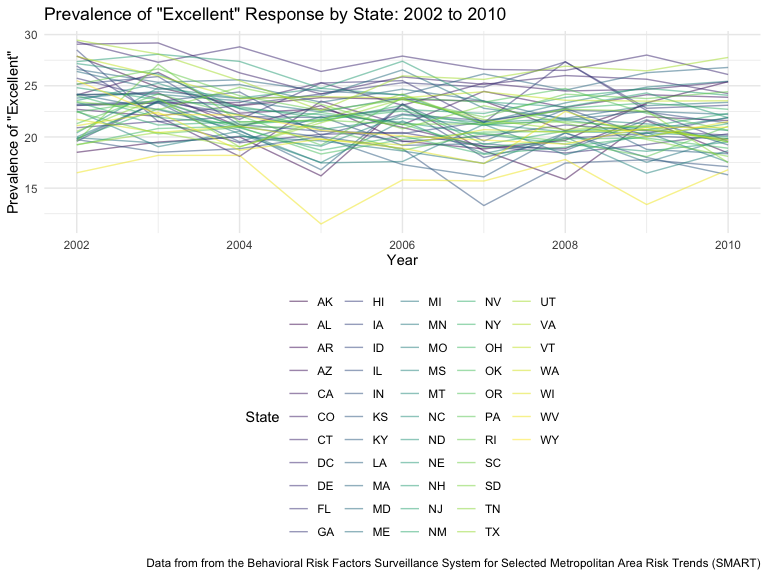
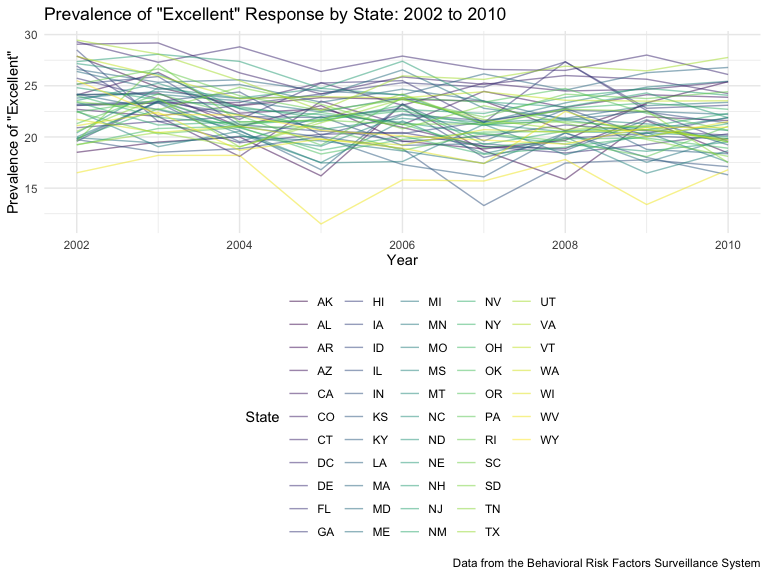
Having internet issues so can't push updates to github right now, but still comitting to Github in the meantime. Finished the plotting of education levels subquestion, now onto the plots for total activity.

Changed region(s): [[0.1875, 0.9688, 1.0, 1.0]]

diff --git a/p8105_hw3_erm2195.md b/p8105_hw3_erm2195.md
@@ -305,7 +305,7 @@ ggplot(brfss_excellent, aes(x = year, y = avg_excellence, group = state, color =
     x = "Year",
     y = 'Prevalence of "Excellent"',
     color = "State",
-    caption = "Data from from the Behavioral Risk Factors Surveillance System for Selected Metropolitan Area Risk Trends (SMART)"
+    caption = "Data from the Behavioral Risk Factors Surveillance System"
   )
 ```
 
@@ -318,6 +318,29 @@ Connecticut are generally in the top of the pack for prevalence of
 “Excellent” responses. Across the country as a whole, it appears that
 there’s a slight decline in the prevalence of “Excellent” responses from
 2002 to 2010.
+
+# Plotting Distribution of Responses in NY State in 2006 and 2010
+
+Make a two-panel plot showing, for the years 2006, and 2010,
+distribution of data_value for responses (“Poor” to “Excellent”) among
+locations in NY State.
+
+``` r
+brfss |> 
+  filter(year %in% c(2006, 2010) & state == "NY") |> 
+  drop_na(response) |> 
+  ggplot(aes(x = response, y = response_prevalence)) +
+  geom_boxplot() +
+  facet_grid(. ~ year) +
+  labs(
+    title = "Distribution of NY State Responses in 2006 and 2010",
+    x = "Response",
+    y = "Prevalence",
+    caption = "Data from the Behavioral Risk Factors Surveillance System"
+  ) 
+```
+
+<img src="p8105_hw3_erm2195_files/figure-gfm/unnamed-chunk-11-1.png" width="90%" />
 
 # Problem 3
 
@@ -368,20 +391,21 @@ Tidying and merging the two datasets. Specifically:
 
 - Excluding participants younger than 21 years old
 
-- Final dataset should include all originally observed variables
+- Recoding the `sex` and `education` variables to be factors, with the
+  latter being ordered
 
-- Exclude participants less than 21 years of age
+- “Tidying” the `mim_accel` dataset using `pivot_longer` so that each
+  minute is its own row
 
-- Encode data with reasonable variable classes (i.e. not numeric, and
-  using factors with the ordering of tables and plots in mind)
+- Merging the two datasets such that any participant without demographic
+  data (aka. being in the `mims_covar` dataset) isn’t included in the
+  final dataset
 
-- Exclude participants missing demographic data
-
-\*\* exclude poeple missing any demographic data in mims_covar? Or just
-those that don’t appear in mims_covar at all?
+- Exclude participants missing demographic data - DISCUSSION BOARD
+  QUESTION RE. THIS
 
 ``` r
-mims_covar = 
+mims_covar_clean = 
   filter(mims_covar, age >= 21) |> 
   mutate(
     sex = as.factor(case_match(sex,
@@ -397,11 +421,61 @@ mims_covar =
   )
 ```
 
+``` r
+mims_accel_clean = 
+  pivot_longer(
+    mims_accel, 
+    starts_with("min"),
+    names_to = "minute",
+    names_prefix = "min",
+    values_to = "mims")
+```
+
+``` r
+mims_merged = 
+  left_join(mims_covar_clean, mims_accel_clean, by = "seqn")
+```
+
 ## Visualizing the Age Distributions of Education Categories, by Sex
 
-Produce a reader-friendly table for the number of men and women in each
-education category, and create a visualization of the age distributions
-for men and women in each education category. Comment on these items.
+Producing a table of the number of men and women in each education
+category. Because I want to make this table easily readable for humans,
+I’m using `pivot_wider` to make it “untidy” and have the sexes in
+different columns.
+
+``` r
+mims_covar_clean |> 
+  group_by(education, sex) |> 
+  count() |> 
+  pivot_wider(
+    names_from = sex,
+    values_from = n
+  ) |> 
+  knitr::kable(digits = 2)
+```
+
+| education              | female | male |
+|:-----------------------|-------:|-----:|
+| less than high school  |     29 |   28 |
+| high school equivalent |     23 |   36 |
+| more than high school  |     59 |   56 |
+
+Create a visualization of the age distributions for men and women in
+each education category. Comment on these items.
+
+``` r
+mims_covar_clean |> 
+  ggplot(aes(x = education, y = age, color = sex)) +
+  geom_boxplot() +
+  labs(
+    title = "Age Distributions in Education Categories, by Sex",
+    x = "Level of Education",
+    y = "Age (years)",
+    caption = "Data from NHANES"
+  ) 
+```
+
+<img src="p8105_hw3_erm2195_files/figure-gfm/unnamed-chunk-17-1.png" width="90%" />
 
 ## Plotting Total Activity and Age, by Sex and Education
 
